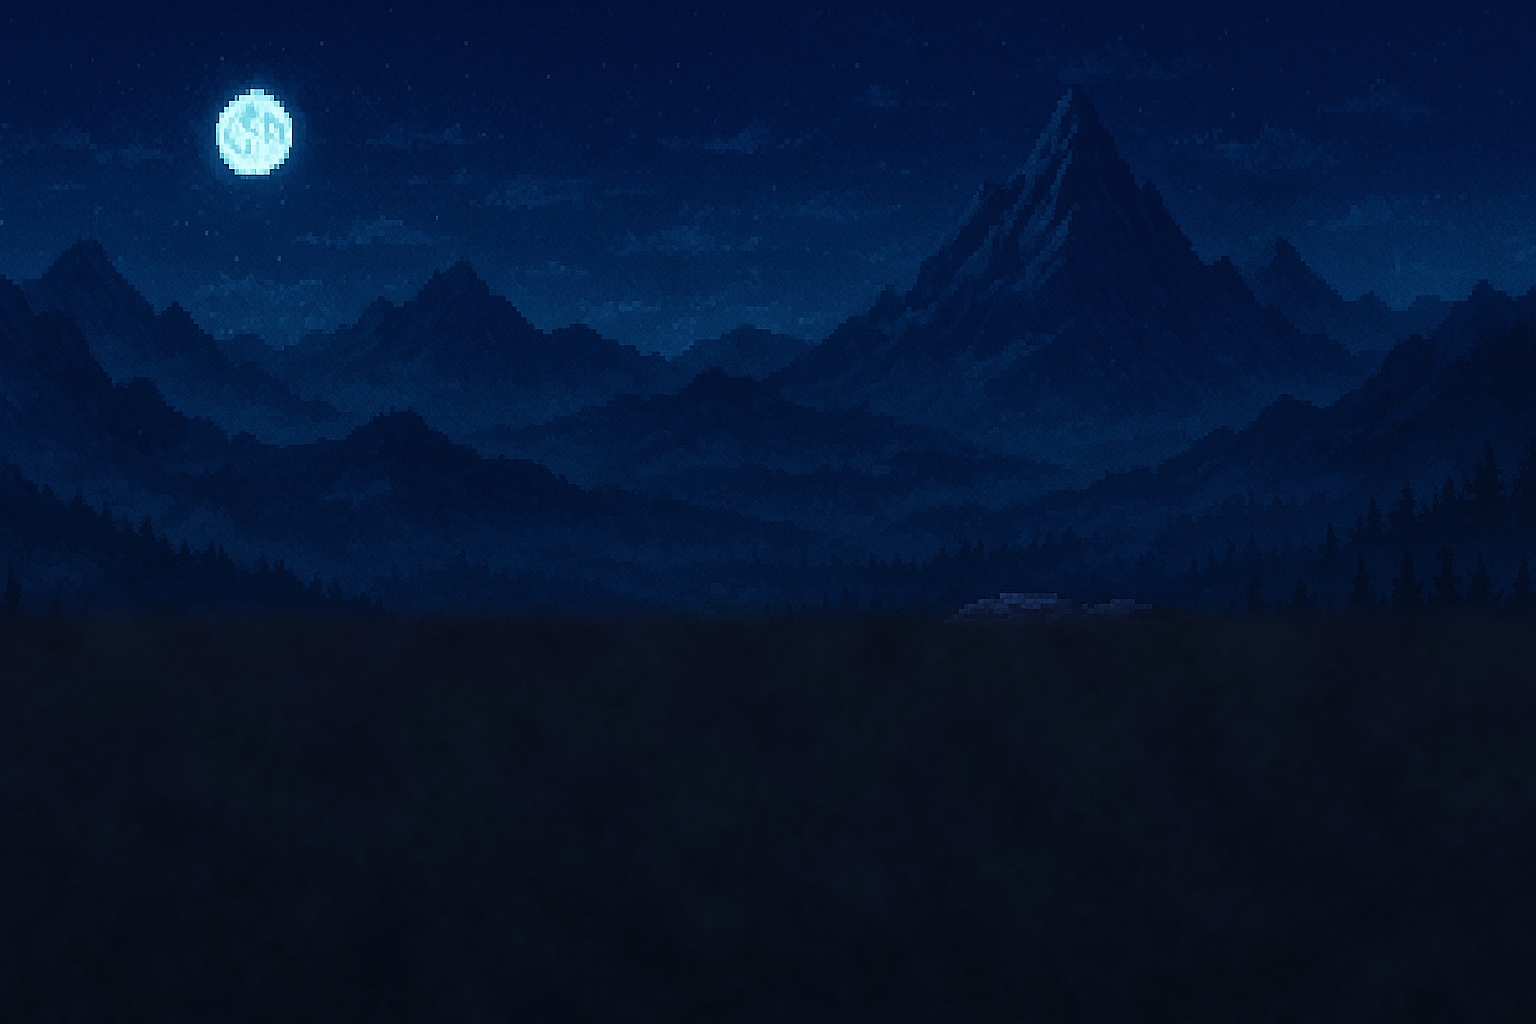
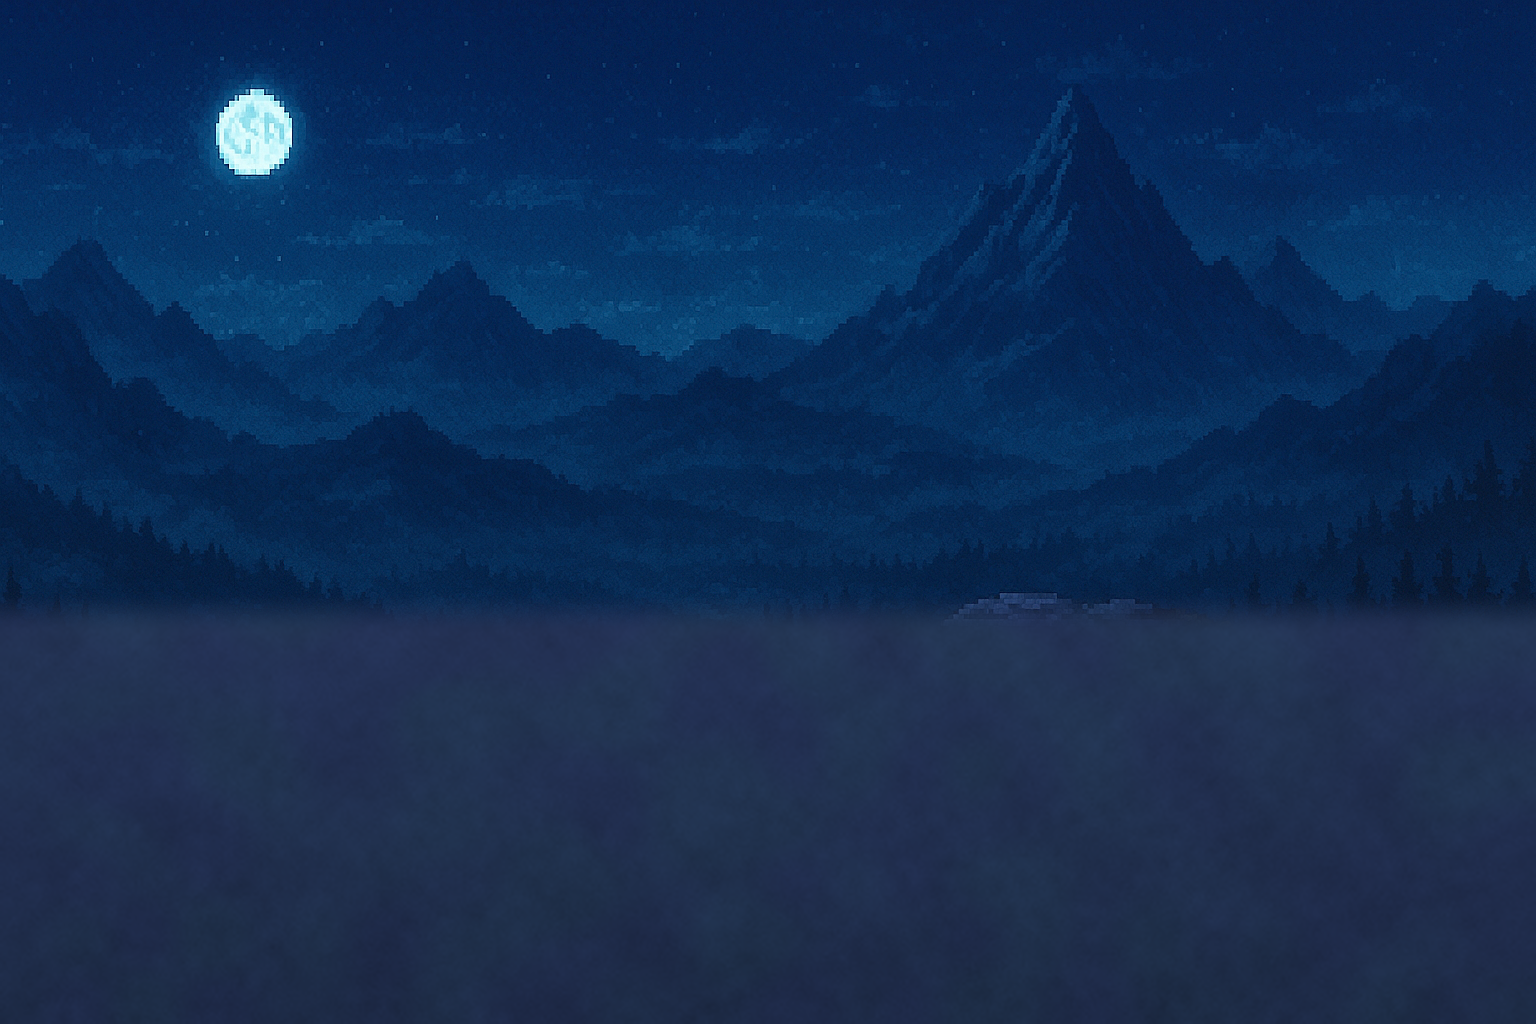
Ash Jenna background: brighten ground and sky
Claude-Session: https://claude.ai/code/session_01DQWC7xTsxVudAbpPbiVFX3

diff --git a/tools/dark_story/compose_ash_background.py b/tools/dark_story/compose_ash_background.py
@@ -34,7 +34,7 @@ rows = np.arange(h)[:, None]
 depth = np.clip((rows - PLATFORM_TOP) / need, 0, 1)
 # Ground gets slightly darker toward the bottom, with soft broad variation
 # plus fine stone speckle.
-lum = 1.15 - 0.35 * depth + noise(48, 0.05) + noise(12, 0.04) + noise(3, 0.03)
+lum = 2.1 - 0.5 * depth + noise(48, 0.05) + noise(12, 0.04) + noise(3, 0.03)
 ground = np.clip(base[None, None, :] * lum[:, :, None], 0, 255)
 ground[..., 1] *= 1.0 + 0.06 * np.clip(noise(64, 1.0), -1, 1)   # faint moss
 
@@ -43,5 +43,7 @@ FADE = 44
 alpha = np.clip((rows - (PLATFORM_TOP - FADE // 2)) / FADE, 0, 1)
 alpha = alpha * alpha * (3 - 2 * alpha)
 out = img * (1 - alpha[:, :, None]) + ground * alpha[:, :, None]
+# Lift the whole picture so the battlers read against it on a GBA screen.
+out = 255.0 * (np.clip(out, 0, 255) / 255.0) ** 0.78
 Image.fromarray(np.clip(out, 0, 255).astype(np.uint8)).save(DEST)
 print(f"Wrote {DEST.relative_to(ROOT)}")
